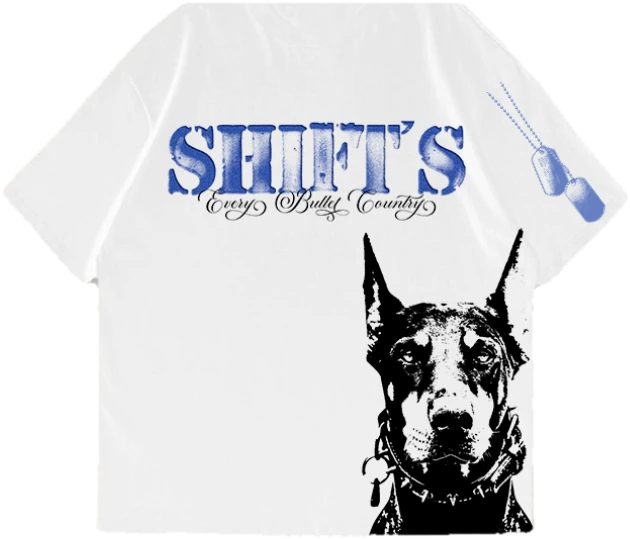
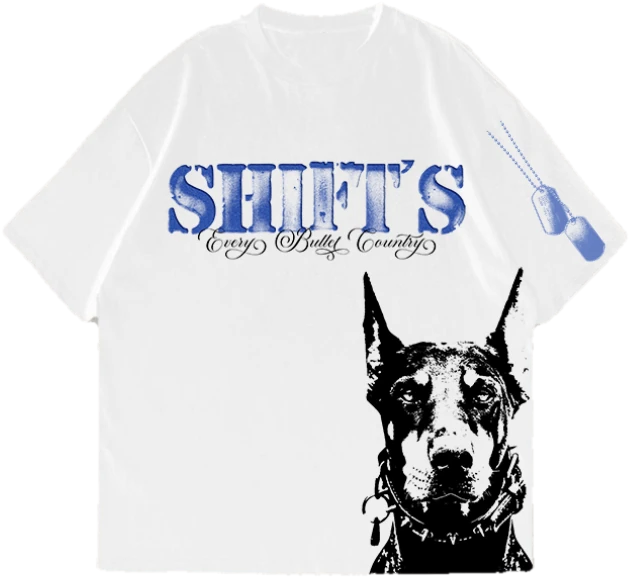
Drop 02: recorte de Clyde sin cortar el cuello y los hombros
Claude-Session: https://claude.ai/code/session_01HR5be7Ysydzdw8opxHYnB9

Changed region(s): [[0.2413, 0.2078, 0.8444, 1.0], [0.7841, 0.1484, 0.9651, 0.475], [0.2111, 0.0594, 0.2413, 0.0891]]

diff --git a/js/data/products.js b/js/data/products.js
@@ -220,7 +220,7 @@ export const PRODUCTS = [
 
 // Versión de las fotos: cámbiala cuando reemplaces una foto con el mismo nombre,
 // así el navegador no sigue mostrando la vieja guardada en caché.
-const FOTOS_VERSION = '2026-11-12a';
+const FOTOS_VERSION = '2026-11-12b';
 PRODUCTS.forEach((p) => p.gallery?.forEach((set) => set.forEach((g) => { g.src += `?v=${FOTOS_VERSION}`; })));
 
 /** Productos visibles en la tienda principal (sin los de drops bloqueados). */
